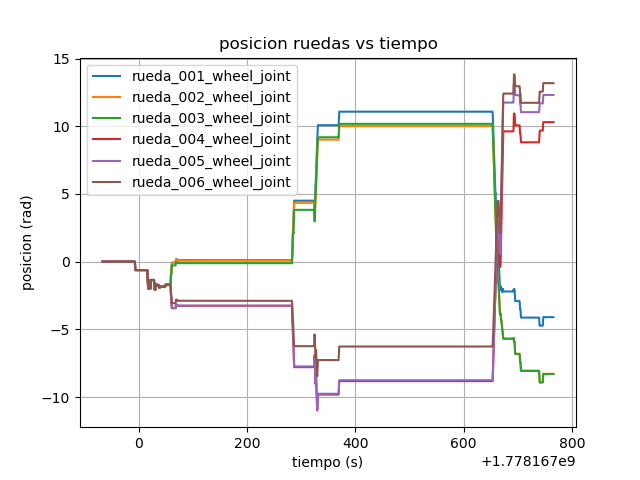
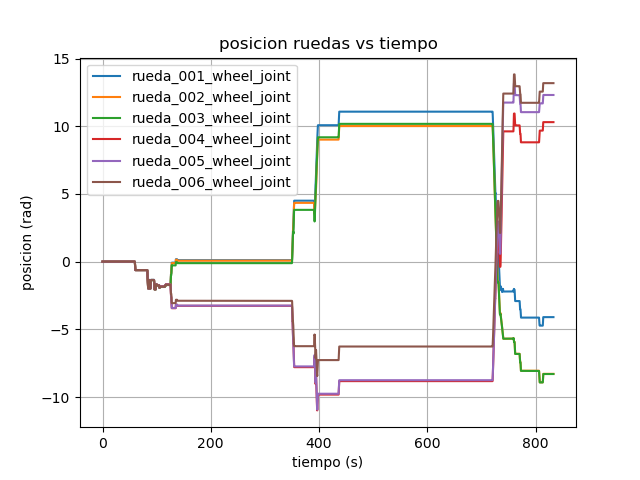
fix time plot

diff --git a/rover_description/src/plot_rosbag.py b/rover_description/src/plot_rosbag.py
@@ -42,12 +42,20 @@ effort_data = {}
 
 imu_acc = []
 
+# tiempo base
+t0 = None
+
 # leer rosbag
 while reader.has_next():
 
     topic, data, t = reader.read_next()
 
     t = t * 1e-9
+
+    if t0 is None:
+        t0 = t
+
+    t = t - t0
 
     # joint states
     if topic == "/joint_states":
